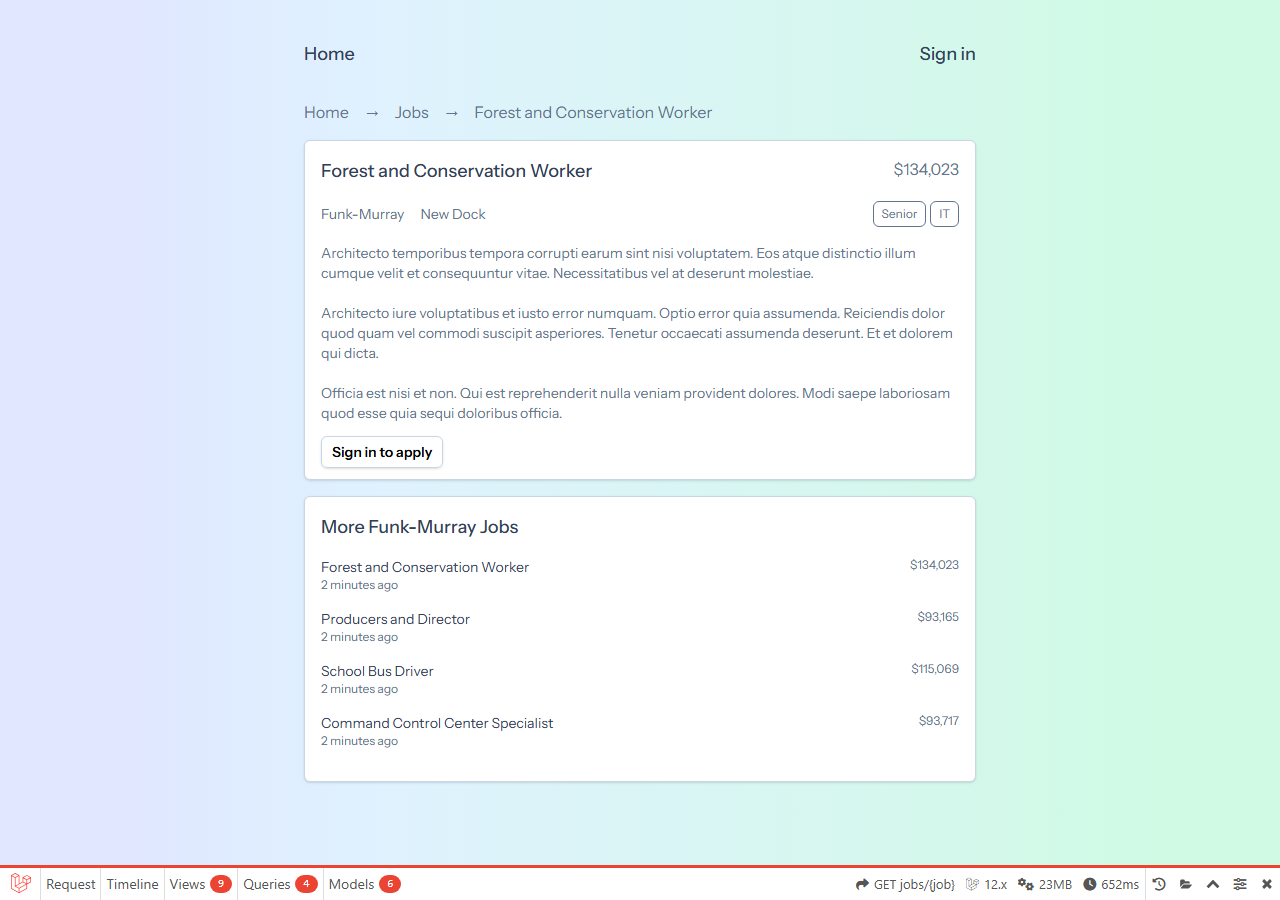
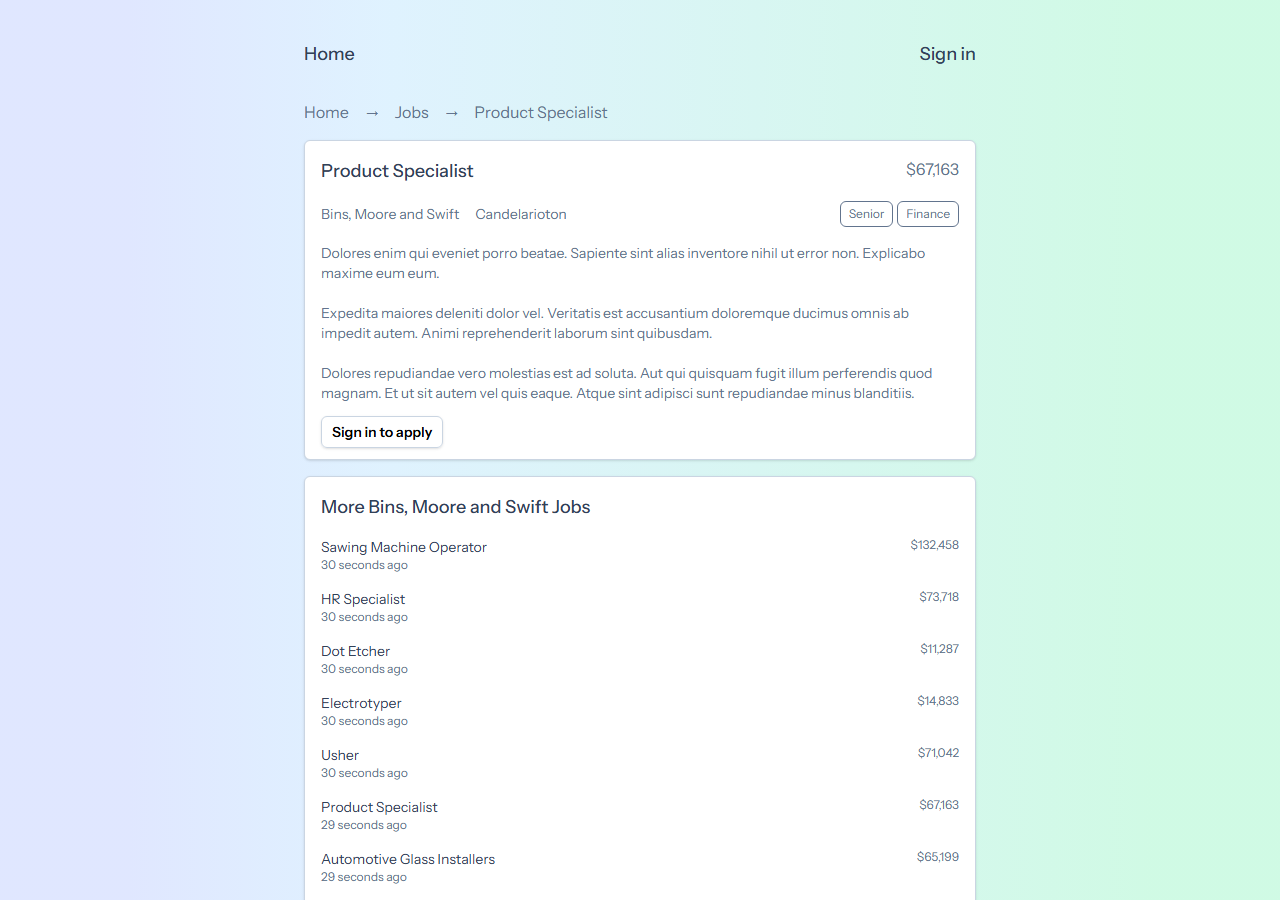
fix(ui): real page title, cleaner nav label, stray comma; debugbar-free screenshots
- <title>Laravel</title> -> <title>Job Portal</title> in the layout shell
- Replace the awkward "{Name}s'' Applications" nav label (with its
  "Anynomus" fallback typo) with a plain "My Applications" link
- Drop a stray comma rendered under the Experience filter radio group
- Re-shoot docs/images/jobs.png + job-detail.png without the Debugbar
  (disabled via DEBUGBAR_ENABLED=false in the local git-ignored .env);
  note the trick in .docs/04-deployment

diff --git a/resources/views/components/layout.blade.php b/resources/views/components/layout.blade.php
@@ -5,7 +5,7 @@
     <meta charset="utf-8">
     <meta name="viewport" content="width=device-width, initial-scale=1">
 
-    <title>Laravel</title>
+    <title>Job Portal</title>
 
     <!-- Fonts -->
     <link rel="preconnect" href="https://fonts.bunny.net">
@@ -34,7 +34,7 @@
             @auth
                 <li>
                     <a href="{{ route('my-job-applications.index') }}">
-                        {{ Str::ucfirst( auth()->user()->name ?? 'Anynomus') }}s' Applications |
+                        My Applications |
                     </a>
                 </li>
                 <li>

diff --git a/resources/views/job/index.blade.php b/resources/views/job/index.blade.php
@@ -30,7 +30,7 @@
                         );
                     @endphp
 
-                    <x-radio-group name="experience" :options="$experiences"/>,
+                    <x-radio-group name="experience" :options="$experiences"/>
 
                 </div>
                 <div>

diff --git a/.docs/04-deployment/deployment.md b/.docs/04-deployment/deployment.md
@@ -29,7 +29,8 @@
    the database.
 6. A user-registration story — production can't seed its users.
 7. Removal of dev-only conveniences: the debugbar package auto-enables with
-   `APP_DEBUG=true`; seeded credentials must never ship.
+   `APP_DEBUG=true` (set `DEBUGBAR_ENABLED=false` in your local git-ignored `.env` to hide
+   it, e.g. when taking screenshots); seeded credentials must never ship.
 
 ## Related docs
 
